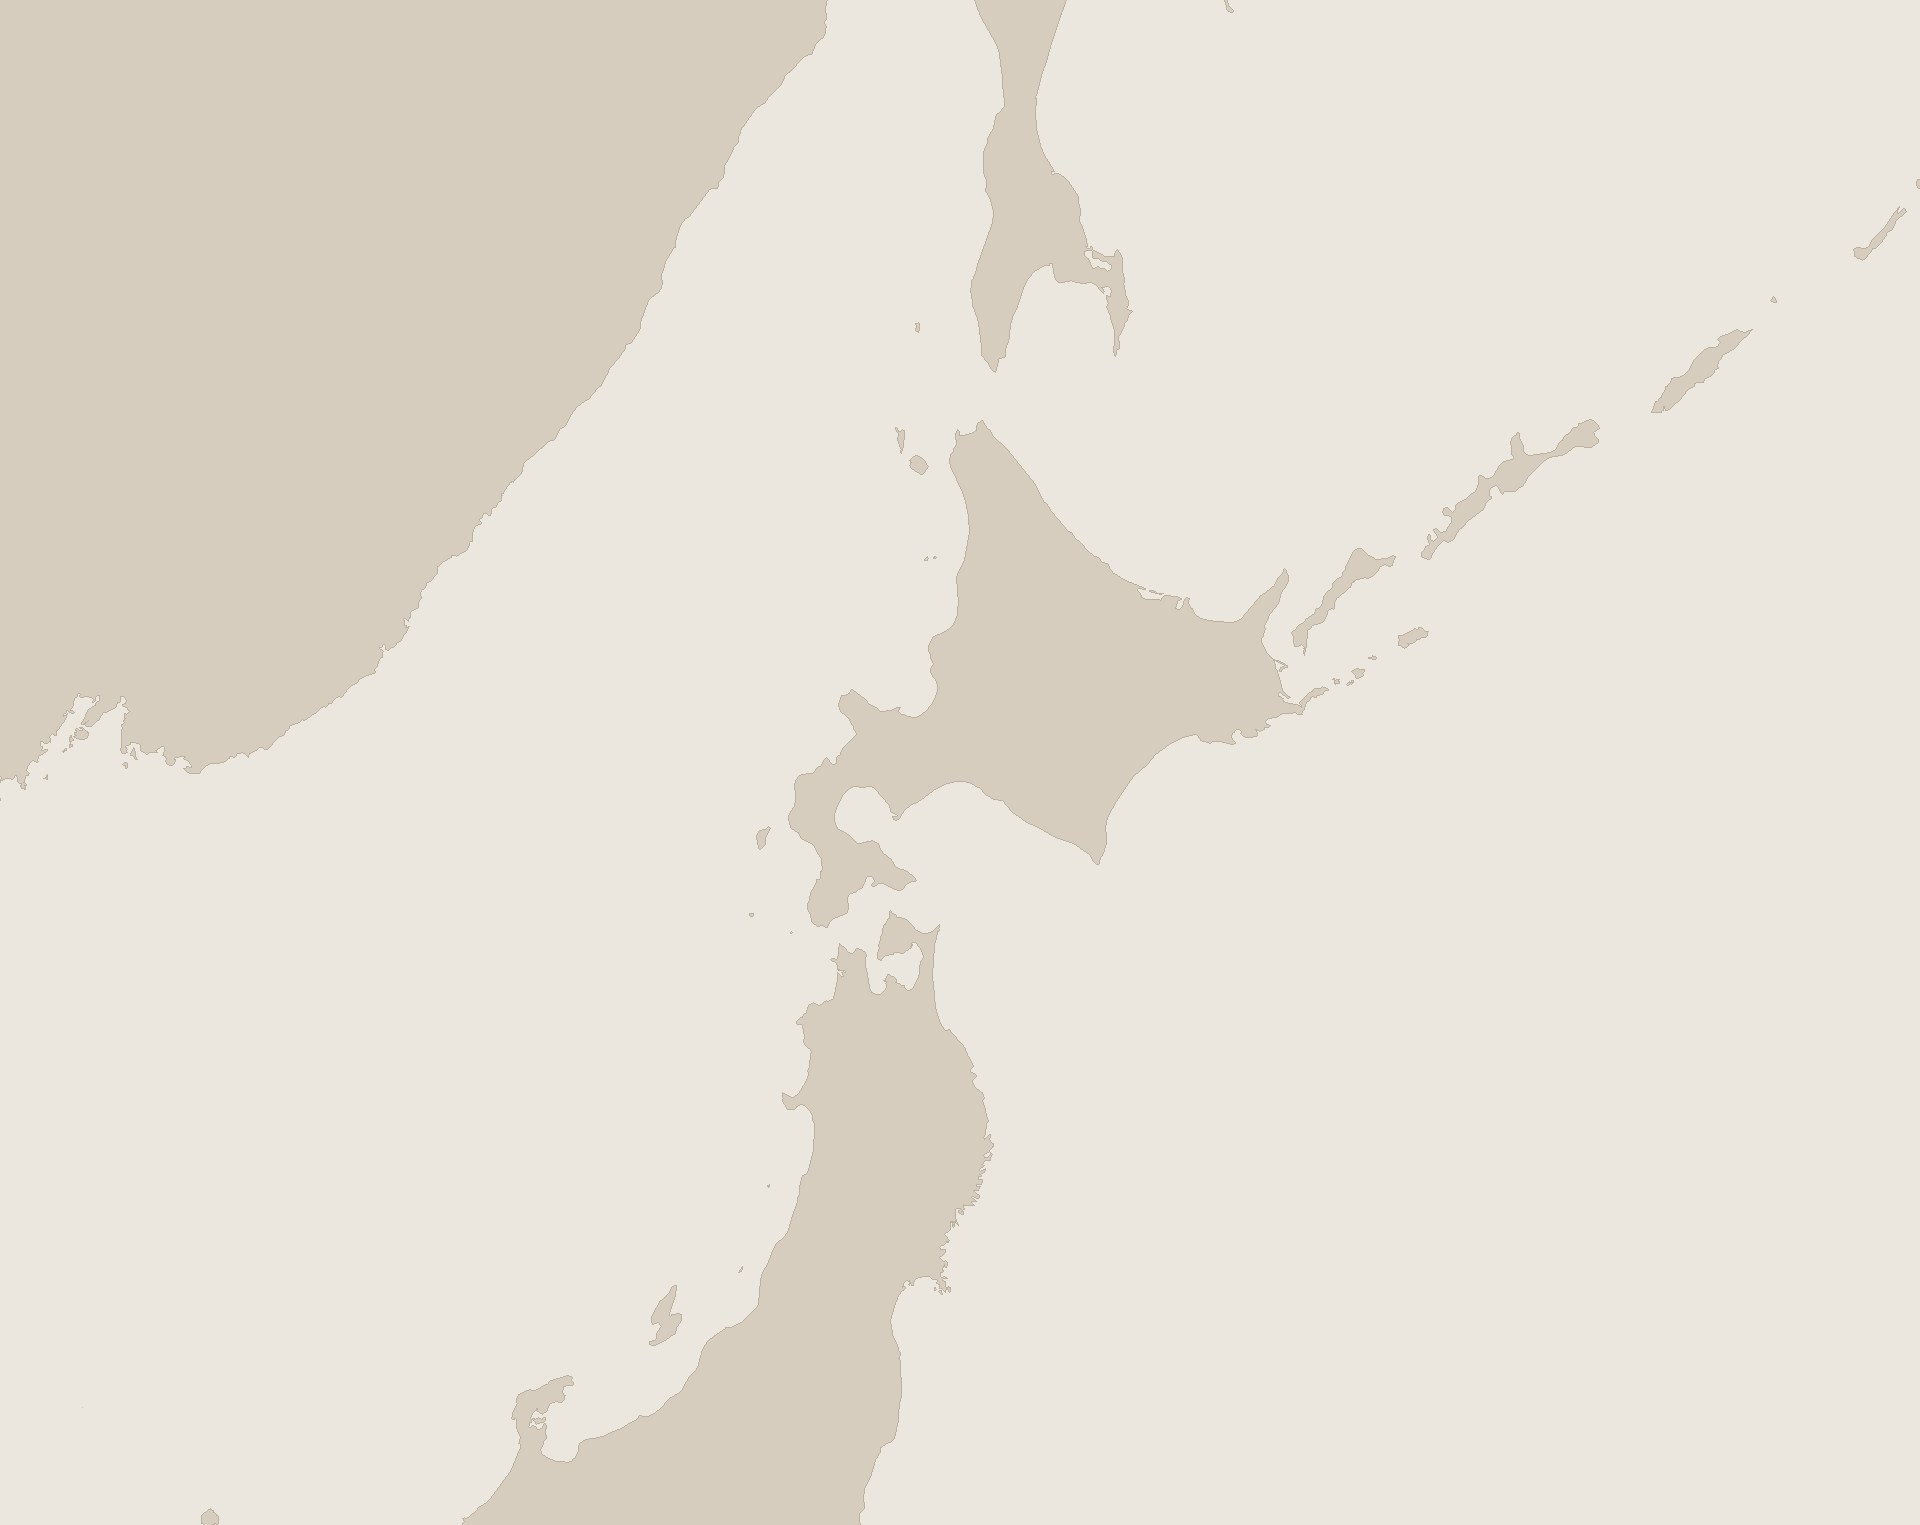
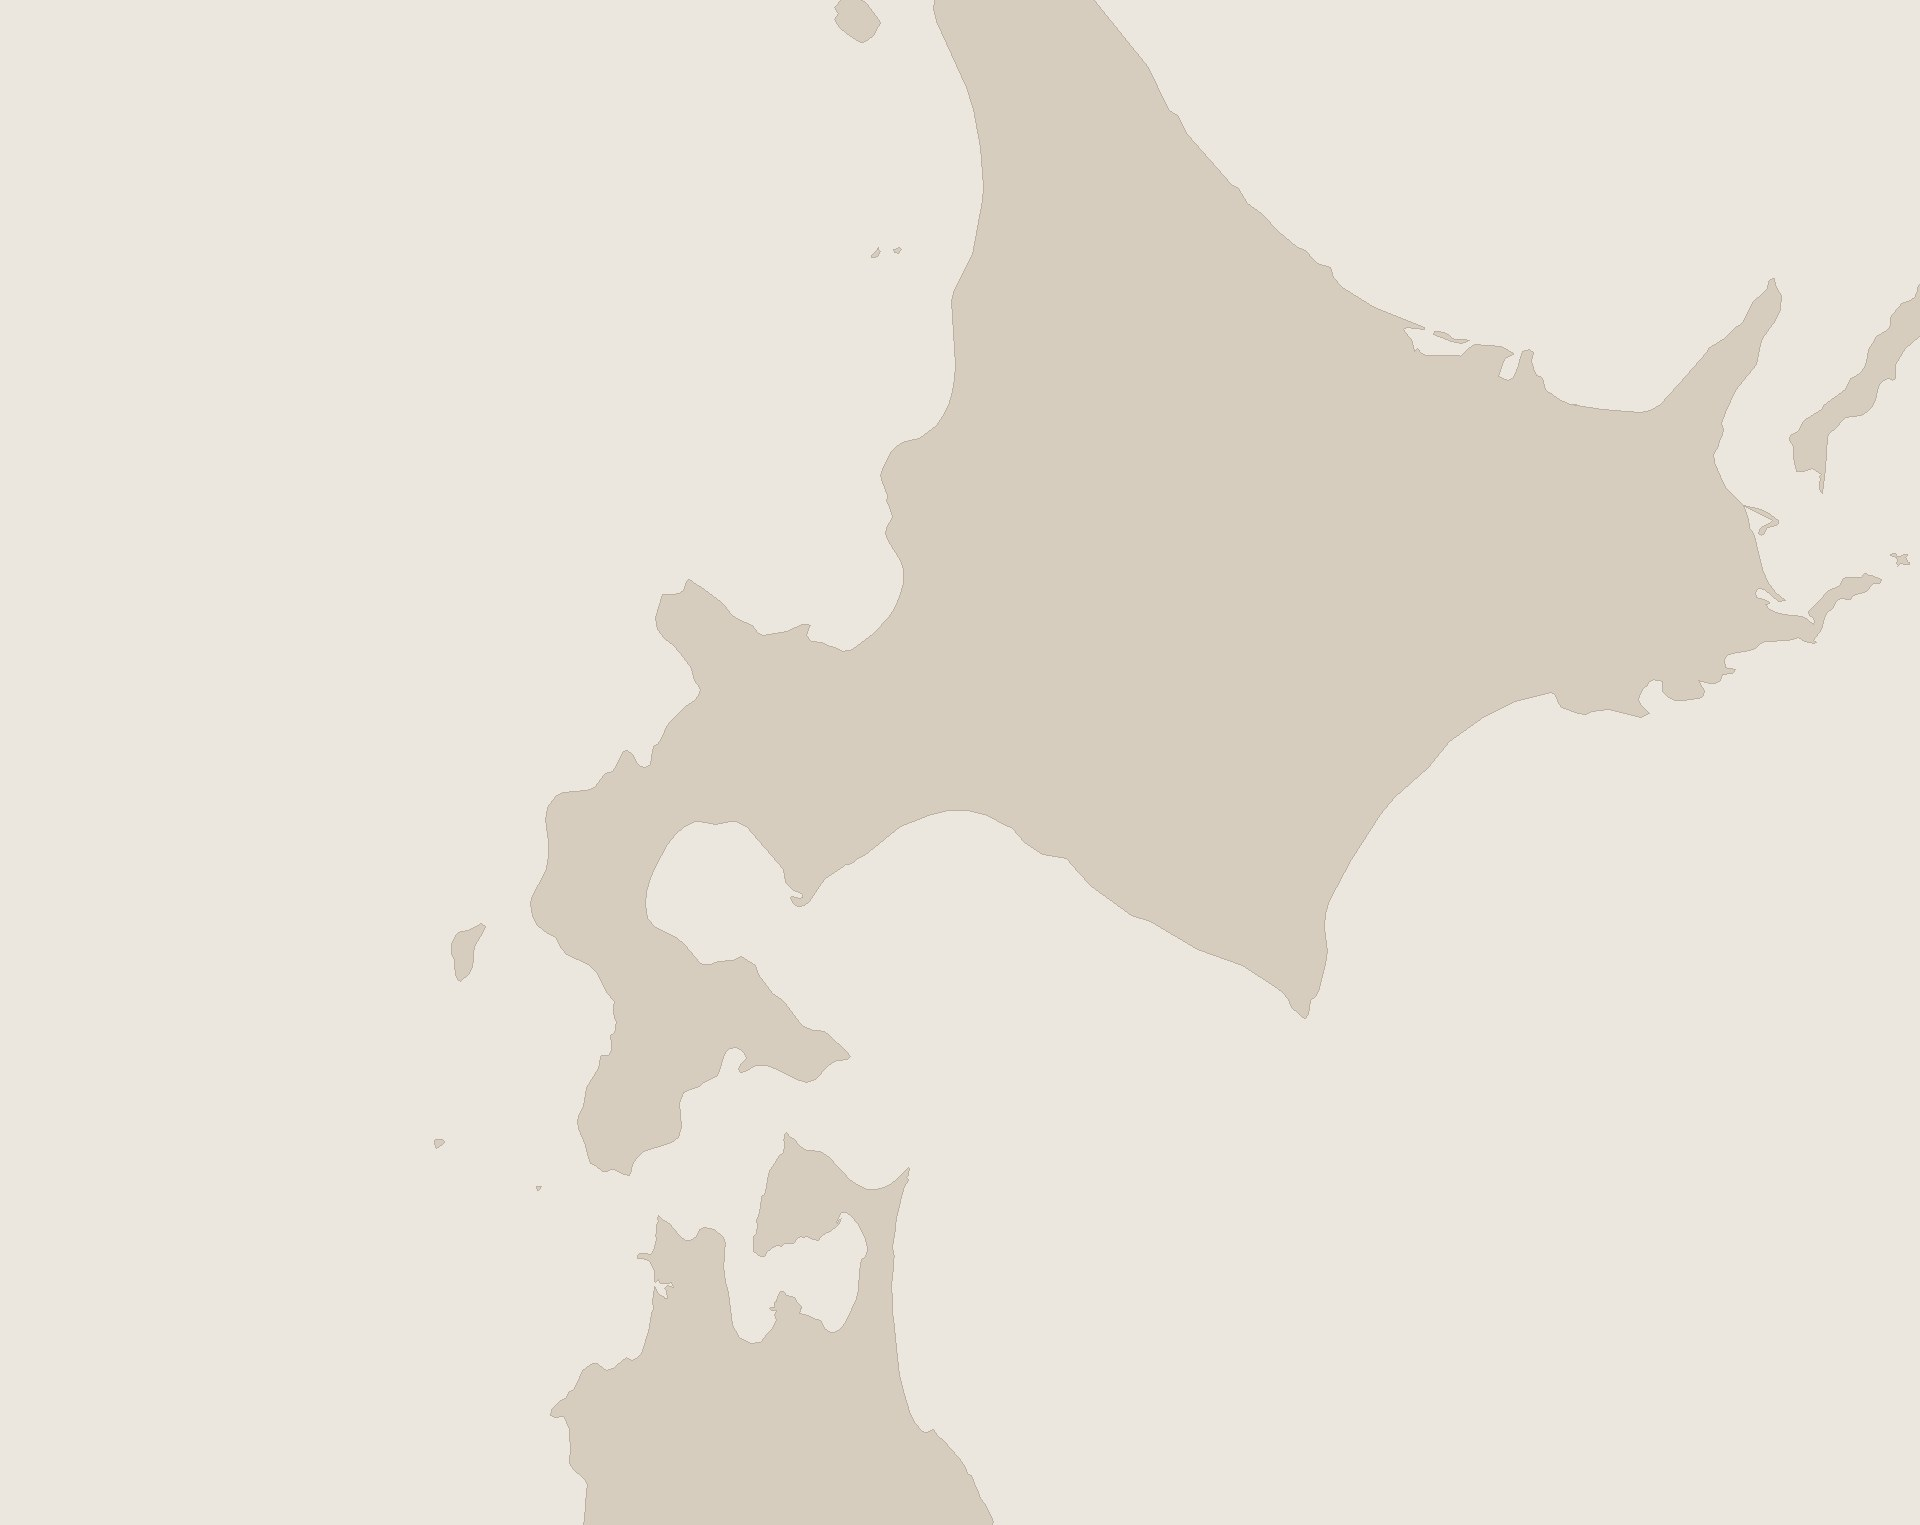
IGG北海道：航線飛抵機場放大、菜單拆四頁（含伴手禮）、航班頁改機場接送、結尾加照片

diff --git a/tour/2027-igg/data.js b/tour/2027-igg/data.js
@@ -220,7 +220,7 @@ window.DATA = {
    "type": "toc",
    "items": [
     {
-     "t": "航班與集合",
+     "t": "機場接送",
      "img": "img/hokkaido-igg-jingu.jpg"
     },
     {
@@ -246,43 +246,25 @@ window.DATA = {
    ]
   },
   {
-   "type": "flight",
+   "type": "notice",
+   "variant": "photo",
+   "kick": "機場接送",
+   "title": "新千歲到札幌，有機場接送",
+   "img": "img/airport-chitose.jpg",
    "items": [
     {
-     "t": "長榮航空 BR 166（A 組去程）",
-     "sub": "07/04（日）",
-     "from": "桃園 TPE",
-     "to": "札幌新千歲 CTS",
-     "dep": "約 06:55",
-     "arr": "11:55",
-     "body": "桃園第二航廈"
+     "t": "新千歲機場 → 札幌",
+     "items": [
+      "抵達新千歲機場後，有機場接送前往札幌市區",
+      "回程同樣從札幌送回新千歲機場"
+     ]
     },
     {
-     "t": "長榮航空 BR 165（A 組回程）",
-     "sub": "07/09（五）",
-     "from": "札幌新千歲 CTS",
-     "to": "桃園 TPE",
-     "dep": "約 13:00",
-     "arr": "16:20",
-     "body": "新千歲國際線航廈"
-    },
-    {
-     "t": "長榮航空 BR 116（B 組去程）",
-     "sub": "07/04（日）",
-     "from": "桃園 TPE",
-     "to": "札幌新千歲 CTS",
-     "dep": "約 10:10",
-     "arr": "15:00",
-     "body": "桃園第二航廈"
-    },
-    {
-     "t": "長榮航空 BR 115（B 組回程）",
-     "sub": "07/09（五）",
-     "from": "札幌新千歲 CTS",
-     "to": "桃園 TPE",
-     "dep": "約 16:15",
-     "arr": "19:15",
-     "body": "新千歲國際線航廈"
+     "t": "自由行",
+     "items": [
+      "本行程為自由行，航班請依各自機票為準",
+      "行李與入住時間以住宿規定為準"
+     ]
     }
    ]
   },
@@ -554,28 +536,6 @@ window.DATA = {
       "scale": 48.41821766550073
      },
      {
-      "src": "img/route-SPK270704F/airport-0.jpg",
-      "bounds": [
-       221.10896888888888,
-       88.21019827657291,
-       15.3,
-       12.15
-      ],
-      "kind": "ne",
-      "scale": 160
-     },
-     {
-      "src": "img/route-SPK270704F/airport-7.jpg",
-      "bounds": [
-       206.56013475555554,
-       103.49370179403654,
-       15.3,
-       12.15
-      ],
-      "kind": "ne",
-      "scale": 160
-     },
-     {
       "src": "img/route-SPK270704F/region.jpg",
       "bounds": [
        222.88073829454902,
@@ -585,6 +545,28 @@ window.DATA = {
       ],
       "kind": "ne",
       "scale": 207.2843227897421
+     },
+     {
+      "src": "img/route-SPK270704F/airport-0.jpg",
+      "bounds": [
+       225.69896888888888,
+       91.8551982765729,
+       6.12,
+       4.86
+      ],
+      "kind": "ne",
+      "scale": 400
+     },
+     {
+      "src": "img/route-SPK270704F/airport-7.jpg",
+      "bounds": [
+       211.15013475555554,
+       107.13870179403654,
+       6.12,
+       4.86
+      ],
+      "kind": "ne",
+      "scale": 400
      },
      {
       "src": "img/route-SPK270704F/local.jpg",
@@ -911,6 +893,8 @@ window.DATA = {
   },
   {
    "type": "food",
+   "kick": "札幌",
+   "title": "烤肉與湯咖哩",
    "items": [
     {
      "t": "成吉思汗達摩本店",
@@ -941,6 +925,20 @@ window.DATA = {
      "sub": "札幌",
      "body": "札幌湯咖哩三大名店之一，湯頭濃厚、配料大塊",
      "img": "img/food-curry2.jpg"
+    }
+   ],
+   "variant": "chopsticks"
+  },
+  {
+   "type": "food",
+   "kick": "札幌",
+   "title": "拉麵與海鮮市場",
+   "items": [
+    {
+     "t": "一幻拉麵",
+     "sub": "札幌",
+     "body": "以蝦湯頭聞名的札幌拉麵名店，湯底濃郁",
+     "img": "img/food-ichigen.jpg"
     },
     {
      "t": "一粒庵 味噌拉麵",
@@ -965,31 +963,21 @@ window.DATA = {
      "sub": "札幌・二條市場",
      "body": "根室漁港直送的螃蟹料理，位於二條市場旁",
      "img": "img/food-crab.jpg"
+    },
+    {
+     "t": "根室花丸 迴轉壽司",
+     "sub": "札幌",
+     "body": "北海道平價人氣迴轉壽司，適合回程前補一餐",
+     "img": "img/food-kaiten-sushi.jpg"
     }
    ],
    "variant": "chopsticks"
   },
   {
    "type": "food",
+   "kick": "小樽・富良野・美瑛",
+   "title": "海膽、壽司與近郊美味",
    "items": [
-    {
-     "t": "札幌蟹本家",
-     "sub": "札幌・薄野",
-     "body": "螃蟹料理專門店，薄野一帶有分店，蟹鍋與蟹腳吃到飽足",
-     "img": "img/food-crab.jpg"
-    },
-    {
-     "t": "根室花丸 迴轉壽司",
-     "sub": "札幌",
-     "body": "北海道平價人氣迴轉壽司，適合回程前補一餐",
-     "img": "img/food-kaiten.jpg"
-    },
-    {
-     "t": "六花亭 札幌本店",
-     "sub": "札幌",
-     "body": "北海道代表性的菓子店，葡萄奶油夾心餅乾是招牌，可買伴手禮",
-     "img": "img/food-roka.jpg"
-    },
     {
      "t": "三角市場海膽丼",
      "sub": "小樽",
@@ -1019,6 +1007,56 @@ window.DATA = {
      "sub": "美瑛",
      "body": "美瑛在地農產與餐飲複合設施，可買農產品與甜點，順路休息",
      "img": "img/hokkaido-igg-biei-hills.jpg"
+    }
+   ],
+   "variant": "chopsticks"
+  },
+  {
+   "type": "food",
+   "kick": "伴手禮",
+   "title": "北海道人氣伴手禮",
+   "items": [
+    {
+     "t": "白色戀人",
+     "sub": "石屋製菓",
+     "body": "白巧克力夾在薄脆餅乾之間，北海道最具代表的伴手禮",
+     "img": "img/gift-shiroi.jpg"
+    },
+    {
+     "t": "ROYCE' 生巧克力",
+     "sub": "ROYCE'",
+     "body": "入口即化的生巧克力，新千歲機場與市區都買得到",
+     "img": "img/gift-royce.jpg"
+    },
+    {
+     "t": "六花亭 奶油夾心餅乾",
+     "sub": "六花亭",
+     "body": "葡萄乾與奶油夾心，六花亭的招牌點心",
+     "img": "img/gift-marusei.jpg"
+    },
+    {
+     "t": "六花亭 酥脆千層派",
+     "sub": "六花亭",
+     "body": "現烤酥皮的人氣點心，保存期限短，適合當天吃",
+     "img": "img/gift-sakusaku.jpg"
+    },
+    {
+     "t": "Calbee じゃがポックル",
+     "sub": "Calbee",
+     "body": "北海道限定的馬鈴薯條，口味清爽",
+     "img": "img/gift-jaga.jpg"
+    },
+    {
+     "t": "北菓樓 開拓おかき",
+     "sub": "北菓樓",
+     "body": "北海道甜蝦風味的米果，鹹香好配茶",
+     "img": "img/gift-kitakaro.jpg"
+    },
+    {
+     "t": "柳月 三方六",
+     "sub": "柳月",
+     "body": "以北海道木柴為造型的年輪蛋糕",
+     "img": "img/gift-sanpo.jpg"
     }
    ],
    "variant": "chopsticks"
@@ -1079,7 +1117,22 @@ window.DATA = {
   },
   {
    "type": "end",
-   "body": "旅途愉快"
+   "body": "旅途愉快",
+   "items": [
+    {
+     "img": "img/hokkaido-igg-furano-tomita.jpg"
+    },
+    {
+     "img": "img/hokkaido-igg-biei-hills.jpg"
+    },
+    {
+     "img": "img/hokkaido-igg-canal.jpg"
+    },
+    {
+     "img": "img/hokkaido-igg-yotei.jpg"
+    }
+   ],
+   "img": "img/hokkaido-igg-biei-aoiike.jpg"
   }
  ]
-}
+};

diff --git a/tour/2027-igg/variants.bundle.js b/tour/2027-igg/variants.bundle.js
@@ -2629,15 +2629,15 @@ M.add('food', 'bento', { name: '便當格', range: [3, 8], html: c => {
     ${a.body ? `<p style="font-size:21px;line-height:1.8;color:var(--mute);margin:40px 0 0;padding-top:28px;border-top:3px solid var(--ink)"><b class="serif" style="display:block;font-size:26px;color:var(--ink);margin-bottom:8px">${U.esc(c.tx('it0', a.t))}</b>${U.esc(a.body)}</p>` : ''}</div>` + cells.map(cell).join('') } }) }
 
 /* variants/food/chopsticks.js */
-// food／chopsticks：深藍紙面＋金箔筷（取自山陰手冊美食頁），照片＋菜名＋一句話，最多 9 道排 3×3；不標第幾天，只標地區
+// food／chopsticks：深藍紙面＋金箔筷（取自山陰手冊美食頁），照片＋菜名＋一句話，依道數自動排 1～3 列、照片隨格寬放大；不標第幾天，只標地區
 { const U = M.util
-M.add('food', 'chopsticks', { name: '深藍筷席', range: [4, 9], order: 0, html: c => {
-  const w = 440, gx = 50, H = 150, rh = 258
+M.add('food', 'chopsticks', { name: '深藍筷席', range: [3, 9], order: 0, html: c => {
+  const n = c.items.length, rows = n <= 3 ? 1 : n <= 8 ? 2 : 3, cols = Math.ceil(n / rows), gx = 50, w = Math.floor((1680 - gx * (cols - 1)) / cols), rh = Math.floor(790 / rows), H = Math.min(rh - 112, Math.round(w * .78))
   return `<div class="ab" style="inset:0;background:#0c1626"></div>
   <img src="img/food-bg-navy.jpg" alt="" style="position:absolute;right:0;top:0;height:1080px;width:776px;object-fit:cover;object-position:right">
   <div class="ab" style="right:640px;top:0;width:200px;height:1080px;background:linear-gradient(90deg,#0c1626,transparent)"></div>
-  <div class="ab in" style="left:120px;top:70px;--i:1;color:#f3ead8"><div class="kick" style="color:#d9b66a">${c.ed('k', '在地餐食')}</div><div class="serif" style="font-size:56px;margin-top:8px">${c.ed('h', '這趟會吃到的料理')}</div></div>` +
-  c.items.map((it, i) => { const x = 120 + (i % 3) * (w + gx), y = 232 + Math.floor(i / 3) * rh
+  <div class="ab in" style="left:120px;top:70px;--i:1;color:#f3ead8"><div class="kick" style="color:#d9b66a">${c.ed('k', c.p.kick || '在地餐食')}</div><div class="serif" style="font-size:56px;margin-top:8px">${c.ed('h', c.p.title || '這趟會吃到的料理')}</div></div>` +
+  c.items.map((it, i) => { const x = 120 + (i % cols) * (w + gx), y = 232 + Math.floor(i / cols) * rh
     return `<div class="ab in" style="left:${x}px;top:${y}px;width:${w}px;--i:${i + 2};color:#f3ead8"><img src="${it.img}" alt="" style="width:100%;height:${H}px;object-fit:cover;display:block;border:1px solid #d9b66a55">
     <div style="display:flex;gap:12px;align-items:baseline;margin-top:10px"><span class="serif" style="font-size:${U.fit(c.tx('it' + i, it.t), w - 110, 28, 18)}px">${c.ed('it' + i, it.t)}</span><span style="font-size:16px;color:#d9b66a;white-space:nowrap">${U.esc(it.sub || '')}</span></div>
     <p style="font-size:17px;line-height:1.5;margin:4px 0 0;color:#f3ead8bb">${U.esc(it.body || '')}</p></div>` }).join('') +
@@ -2942,7 +2942,7 @@ M.add('notice', 'photo', { name: '照片＋清單', range: [1, 3], html: c => {
   const pad = Math.max(0, (B - T - need(fs)) / 2)
   return `<img class="hero" src="${img}" alt="" style="position:absolute;left:0;top:0;width:${PW}px;height:1080px;object-fit:cover">
     <div class="ab" style="left:0;top:0;width:${PW}px;height:1080px;background:linear-gradient(180deg,rgba(0,0,0,0) 45%,rgba(0,0,0,.72))"></div>
-    <div class="ab in" style="left:64px;bottom:90px;width:${PW - 110}px;color:#fff;--i:1"><div class="kick" style="color:#fff">${c.ed('k', '注意事項')}</div><div class="serif" style="font-size:${U.fit(c.tx("h", "出門在外，記得這幾件事"), PW - 110, 56, 40)}px;line-height:1.25;margin-top:12px">${c.ed('h', '出門在外，記得這幾件事')}</div></div>
+    <div class="ab in" style="left:64px;bottom:90px;width:${PW - 110}px;color:#fff;--i:1"><div class="kick" style="color:#fff">${c.ed('k', c.p.kick || '注意事項')}</div><div class="serif" style="font-size:${U.fit(c.tx("h", c.p.title || "出門在外，記得這幾件事"), PW - 110, 56, 40)}px;line-height:1.25;margin-top:12px">${c.ed('h', c.p.title || '出門在外，記得這幾件事')}</div></div>
     <div class="ab" style="left:${X}px;top:${T + pad}px;width:${W}px">` +
     c.items.map((it, i) => `<div class="in" style="${i ? 'margin-top:22px;padding-top:22px;border-top:1px solid #d3d7d4;' : ''}--i:${i + 2}">
       <div style="display:flex;align-items:baseline;gap:14px;margin-bottom:12px"><span style="font:700 ${fs}px var(--serif);color:${cl[i % 3]}">${U.no(i)}</span><div class="serif" style="font-size:${Math.round(fs * 1.3)}px;line-height:1.35">${c.ed('it' + i, it.t)}</div></div>
@@ -3900,12 +3900,12 @@ M.add('qa', 'tiers', { name: '詳略兩級', range: [5, 10], html: c => {
    const event=clock.events.find(e=>t>=e.start&&t<e.end),idx=event?.i??-1,s=event&&r.segments[idx],intro=t<clock.intro,final=!event&&!intro,u=event?ease(cl((t-event.start)/event.travel)):1,landed=event&&t>=event.start+event.travel
    let cam=r.start,phase=final?'final':intro?'overview':String(idx),geo=s&&curve(s,u)
    if(s){
-    const wide=fitPoints([geo.a,geo.b,geo.control]),near={x:geo.b[0],y:geo.b[1],s:Math.min(160,Math.max(wide.s*2.5,r.final.s))}
+    const wide=fitPoints([geo.a,geo.b,geo.control]),near={x:geo.b[0],y:geo.b[1],s:Math.min(400,Math.max(wide.s*2.5,r.final.s))}
     if(mode==='follow')cam={x:geo.p[0],y:geo.p[1],s:wide.s*2.1}
     else if(mode==='atlas')cam=u<.6?fitPoints([geo.a,geo.p]):near
     else if(mode==='cut'||mode==='split')cam=landed?near:wide
     else cam=camera(wide,near,u)
-    if(s.mode!=='flight'){const pf=idx>0&&r.segments[idx-1].mode==='flight'&&byId[r.segments[idx-1].to].pos;cam=pf?camera({x:pf[0],y:pf[1],s:Math.min(160,r.final.s)},ground,u):ground}
+    if(s.mode!=='flight'){const pf=idx>0&&r.segments[idx-1].mode==='flight'&&byId[r.segments[idx-1].to].pos;cam=pf?camera({x:pf[0],y:pf[1],s:Math.min(400,r.final.s)},ground,u):ground}
    }else if(final&&ground)cam=ground
    maps(images,cam)
    const at=p=>[(p[0]-cam.x)*cam.s+W/2,(p[1]-cam.y)*cam.s+H/2]
